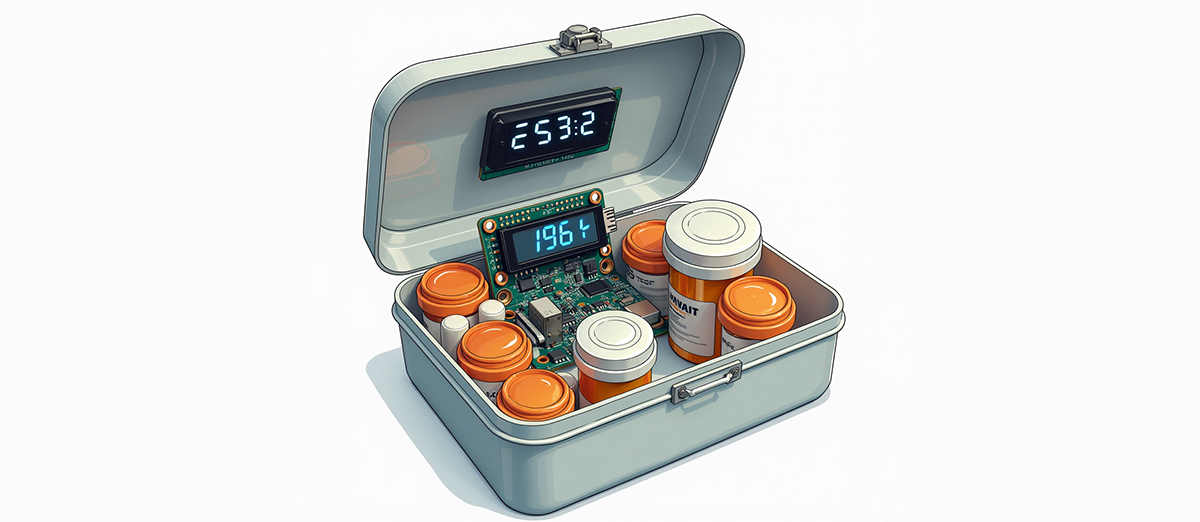
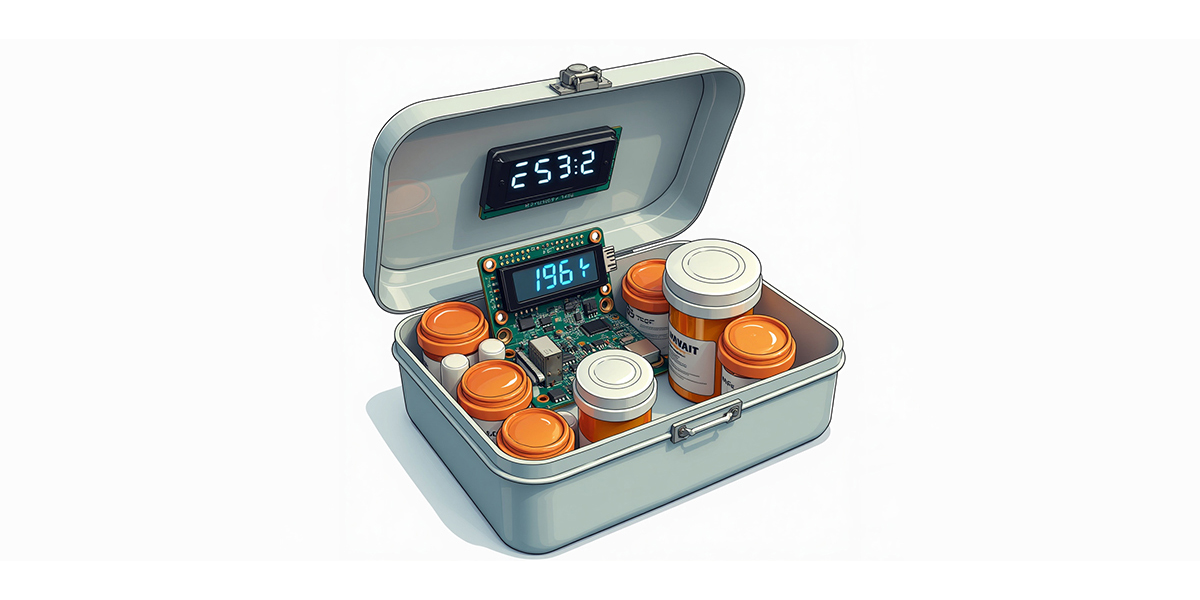
Small bug fixes and new feature
** The main changes
- Corrected the medibox image aspect ratio
- Fixed the repeating technology icons
- Implemented form submitting feature

Changed region(s): [[0.3083, 0.0307, 0.7092, 1.0]]

diff --git a/index.html b/index.html
@@ -355,8 +355,8 @@
             </div>
             <div class="techlayer">
                 <div class="technitem">
-                    <svg stroke="currentColor" fill="currentColor" stroke-width="0"
-                        viewBox="0 0 448 512" class="icon" height="1em" width="1em"
+                    <svg stroke="currentColor" fill="currentColor" stroke-width="0" viewBox="0 0 448 512" class="icon"
+                        height="1em" width="1em"
                         xmlns="http://www.w3.org/2000/svg"><!--!Font Awesome Free 6.6.0 by @fontawesome - https://fontawesome.com License - https://fontawesome.com/license/free Copyright 2024 Fonticons, Inc.-->
                         <path
                             d="M243.6 91.6L323.7 138.4C326.6 140 326.7 144.6 323.7 146.2L228.5 201.9C225.6 203.6 222.2 203.4 219.5 201.9L124.4 146.2C121.4 144.6 121.4 140 124.4 138.4L204.4 91.6V0L0 119.4V358.3L78.4 312.5V218.9C78.3 215.6 82.2 213.2 85.1 215L180.3 270.6C183.2 272.3 184.8 275.3 184.8 278.5V389.7C184.8 393 181 395.4 178.1 393.6L98 346.8L19.6 392.6L224 512L428.4 392.6L350 346.8L269.9 393.6C267.1 395.3 263.1 393.1 263.2 389.7V278.5C263.2 275.1 265.1 272.2 267.7 270.6L362.9 215C365.7 213.2 369.7 215.5 369.6 218.9V312.5L448 358.3V119.4L243.6 0V91.6z" />
@@ -364,22 +364,38 @@
                     <span class="icontext">Unity 3D</span>
                 </div>
                 <div class="technitem"><svg stroke="currentColor" fill="currentColor" stroke-width="0"
-                    viewBox="0 0 448 512" class="icon" height="1em" width="1em" xmlns="http://www.w3.org/2000/svg"><!--!Font Awesome Free 6.6.0 by @fontawesome - https://fontawesome.com License - https://fontawesome.com/license/free Copyright 2024 Fonticons, Inc.-->
+                        viewBox="0 0 448 512" class="icon" height="1em" width="1em"
+                        xmlns="http://www.w3.org/2000/svg"><!--!Font Awesome Free 6.6.0 by @fontawesome - https://fontawesome.com License - https://fontawesome.com/license/free Copyright 2024 Fonticons, Inc.-->
                         <path
                             d="M448 80l0 48c0 44.2-100.3 80-224 80S0 172.2 0 128L0 80C0 35.8 100.3 0 224 0S448 35.8 448 80zM393.2 214.7c20.8-7.4 39.9-16.9 54.8-28.6L448 288c0 44.2-100.3 80-224 80S0 332.2 0 288L0 186.1c14.9 11.8 34 21.2 54.8 28.6C99.7 230.7 159.5 240 224 240s124.3-9.3 169.2-25.3zM0 346.1c14.9 11.8 34 21.2 54.8 28.6C99.7 390.7 159.5 400 224 400s124.3-9.3 169.2-25.3c20.8-7.4 39.9-16.9 54.8-28.6l0 85.9c0 44.2-100.3 80-224 80S0 476.2 0 432l0-85.9z" />
                     </svg><span class="icontext">My SQL</span></div>
                 <div class="technitem"><svg stroke="currentColor" fill="currentColor" stroke-width="0"
-                        viewBox="0 0 448 512" class="icon" height="1em" width="1em" xmlns="http://www.w3.org/2000/svg">
+                        viewBox="0 0 200 250" class="icon" height="1em" width="1em" xmlns="http://www.w3.org/2000/svg">
                         <path
-                            d="M439.8 200.5c-7.7-30.9-22.3-54.2-53.4-54.2h-40.1v47.4c0 36.8-31.2 67.8-66.8 67.8H172.7c-29.2 0-53.4 25-53.4 54.3v101.8c0 29 25.2 46 53.4 54.3 33.8 9.9 66.3 11.7 106.8 0 26.9-7.8 53.4-23.5 53.4-54.3v-40.7H226.2v-13.6h160.2c31.1 0 42.6-21.7 53.4-54.2 11.2-33.5 10.7-65.7 0-108.6zM286.2 404c11.1 0 20.1 9.1 20.1 20.3 0 11.3-9 20.4-20.1 20.4-11 0-20.1-9.2-20.1-20.4.1-11.3 9.1-20.3 20.1-20.3zM167.8 248.1h106.8c29.7 0 53.4-24.5 53.4-54.3V91.9c0-29-24.4-50.7-53.4-55.6-35.8-5.9-74.7-5.6-106.8.1-45.2 8-53.4 24.7-53.4 55.6v40.7h106.9v13.6h-147c-31.1 0-58.3 18.7-66.8 54.2-9.8 40.7-10.2 66.1 0 108.6 7.6 31.6 25.7 54.2 56.8 54.2H101v-48.8c0-35.3 30.5-66.4 66.8-66.4zm-6.7-142.6c-11.1 0-20.1-9.1-20.1-20.3.1-11.3 9-20.4 20.1-20.4 11 0 20.1 9.2 20.1 20.4s-9 20.3-20.1 20.3z">
-                        </path>
-                    </svg><span class="icontext">Python</span></div>
-                <div class="technitem"><svg stroke="currentColor" fill="currentColor" stroke-width="0"
-                        viewBox="0 0 448 512" class="icon" height="1em" width="1em" xmlns="http://www.w3.org/2000/svg">
+                            d="M186.377012,94.197636 L186.377012,160.424478 C186.377012,183.243286 184.707519,194.187745 179.699037,203.649406 C175.060358,212.741266 168.937684,218.490548 156.323731,224.798721 L129.794937,212.183571 C142.410087,206.247593 148.531564,201.05481 152.427049,193.074749 C156.509231,184.91278 157.808923,175.451119 157.808923,150.593015 L157.808923,94.197636 L186.377012,94.197636 Z M140.928486,50.0787207 L140.928486,182.316986 C126.272844,185.099476 115.512688,186.212472 103.826231,186.212472 C68.9487718,186.212472 50.7686431,170.445031 50.7686431,140.205054 C50.7686431,111.079269 70.0629644,92.1583404 99.9295492,92.1583404 C104.567032,92.1583404 108.091519,92.5281423 112.359199,93.6411381 L112.359199,50.0787207 L140.928486,50.0787207 Z M102.713236,115.160254 C88.243093,115.160254 79.8944275,124.065418 79.8944275,139.647359 C79.8944275,154.860696 87.8720944,163.208164 102.527736,163.208164 C105.680028,163.208164 108.278215,163.022665 112.359199,162.467364 L112.359199,116.643052 C109.020212,115.531253 106.237722,115.160254 102.713236,115.160254 Z M186.377012,50.2307105 L186.377012,79.5419941 L157.808923,79.5419941 L157.808923,50.2307105 L186.377012,50.2307105 Z"
+                            fill="currentColor"> </path>
+                    </svg><span class="icontext">Django</span></div>
+                <div class="technitem"><svg class="icon" viewBox="0 0 32 32" xmlns="http://www.w3.org/2000/svg"
+                        fill="currentColor" height="64" width="64">
                         <path
-                            d="M0 32v448h448V32H0zm243.8 349.4c0 43.6-25.6 63.5-62.9 63.5-33.7 0-53.2-17.4-63.2-38.5l34.3-20.7c6.6 11.7 12.6 21.6 27.1 21.6 13.8 0 22.6-5.4 22.6-26.5V237.7h42.1v143.7zm99.6 63.5c-39.1 0-64.4-18.6-76.7-43l34.3-19.8c9 14.7 20.8 25.6 41.5 25.6 17.4 0 28.6-8.7 28.6-20.8 0-14.4-11.4-19.5-30.7-28l-10.5-4.5c-30.4-12.9-50.5-29.2-50.5-63.5 0-31.6 24.1-55.6 61.6-55.6 26.8 0 46 9.3 59.8 33.7L368 290c-7.2-12.9-15-18-27.1-18-12.3 0-20.1 7.8-20.1 18 0 12.6 7.8 17.7 25.9 25.6l10.5 4.5c35.8 15.3 55.9 31 55.9 66.2 0 37.8-29.8 58.6-69.7 58.6z">
-                        </path>
-                    </svg><span class="icontext">JavaScript</span></div>
+                            d="M29,10.232a2.387,2.387,0,0,0-.318-1.244,2.451,2.451,0,0,0-.936-.879Q22.552,5.241,17.353,2.376A2.642,2.642,0,0,0,14.59,2.4c-1.378.779-8.275,4.565-10.331,5.706A2.287,2.287,0,0,0,3,10.231V21.77a2.4,2.4,0,0,0,.3,1.22,2.434,2.434,0,0,0,.954.9c2.056,1.141,8.954,4.927,10.332,5.706a2.642,2.642,0,0,0,2.763.026q5.19-2.871,10.386-5.733a2.444,2.444,0,0,0,.955-.9,2.4,2.4,0,0,0,.3-1.22V10.232"
+                            fill="currentColor"></path>
+                        <path
+                            d="M28.549,23.171a2.126,2.126,0,0,0,.147-.182,2.4,2.4,0,0,0,.3-1.22V10.232a2.387,2.387,0,0,0-.318-1.244c-.036-.059-.089-.105-.13-.16L16,16Z"
+                            fill="currentColor"></path>
+                        <path
+                            d="M28.549,23.171,16,16,3.451,23.171a2.435,2.435,0,0,0,.809.72c2.056,1.141,8.954,4.927,10.332,5.706a2.642,2.642,0,0,0,2.763.026q5.19-2.871,10.386-5.733A2.43,2.43,0,0,0,28.549,23.171Z"
+                            fill="currentColor"></path>
+                        <path
+                            d="M19.6,18.02a4.121,4.121,0,1,1-.027-4.087l3.615-2.073A8.309,8.309,0,0,0,7.7,16a8.216,8.216,0,0,0,1.1,4.117A8.319,8.319,0,0,0,23.211,20.1L19.6,18.02"
+                            fill="#ffffff"></path>
+                        <polygon
+                            points="24.076 15.538 23.15 15.538 23.15 14.617 22.225 14.617 22.225 15.538 21.299 15.538 21.299 16.461 22.225 16.461 22.225 17.381 23.15 17.381 23.15 16.461 24.076 16.461 24.076 15.538"
+                            fill="#ffffff"></polygon>
+                        <polygon
+                            points="27.549 15.538 26.623 15.538 26.623 14.617 25.697 14.617 25.697 15.538 24.771 15.538 24.771 16.461 25.697 16.461 25.697 17.381 26.623 17.381 26.623 16.461 27.549 16.461 27.549 15.538"
+                            fill="#ffffff"></polygon>
+                    </svg><span class="icontext">C++</span></div>
             </div>
         </div>
     </div>
@@ -480,27 +496,35 @@
         </div>
         <h4>Interested in collaborating or have a question? Simply fill out the form below with your name and email
             address, and I'll be in touch with you as soon as possible.</h4>
-        <div class="formparent">
+        <form action="https://formspree.io/f/xblyoklz" method="POST" class="formparent">
+            <!-- spam protection -->
+            <input type="text" name="_honey" style="display:none">
+            <input type="hidden" name="_captcha" value="false">
+
             <div class="form">
                 <div class="namemail">
                     <div class="input1">
                         <div class="ashtext">Your name</div>
-                        <textarea type="text" class="nminput" placeholder="Enter your name" id="name"></textarea>
+                        <textarea type="text" class="nminput" name="name" placeholder="Enter your name"
+                            required></textarea>
                     </div>
                     <div class="input2">
                         <div class="ashtext">Your email</div>
-                        <textarea type="text" class="nminput" placeholder="Enter your email" id="email"></textarea>
+                        <textarea type="text" class="nminput" name="email" placeholder="Enter your email"
+                            required></textarea>
                     </div>
                 </div>
                 <div class="input3">
-                    <div class="ashtext">Your email</div>
-                    <textarea type="text" class="message" placeholder="Enter your message" id="msg"></textarea>
+                    <div class="ashtext">Message</div>
+                    <textarea type="text" class="message" name="message" placeholder="Enter your message"
+                        required></textarea>
                 </div>
                 <div>
-                    <button class="cursor-hover" id="sendmessage">Send Message</button>
+                    <button class="cursor-hover" type="submit">Send Message</button>
                 </div>
             </div>
-        </div>
+        </form>
+
     </div>
     <div class="footer">
         <p>Created by Rashmika Dushan ©2024.</p>

diff --git a/index.js b/index.js
@@ -110,13 +110,3 @@ navlinks.forEach(link => {
         // }, { duration: 300, fill: "forwards", easing: "ease-in-out"}); // todo
     }
 })  
-
-
-sendMessage.onclick = () => {
-    if(nametext.value == '' || email.value == '' || message.value == ''){
-        alert('Please fill all the fields');
-        return}
-    else{
-        alert('Message Sent!');
-    }
-}
